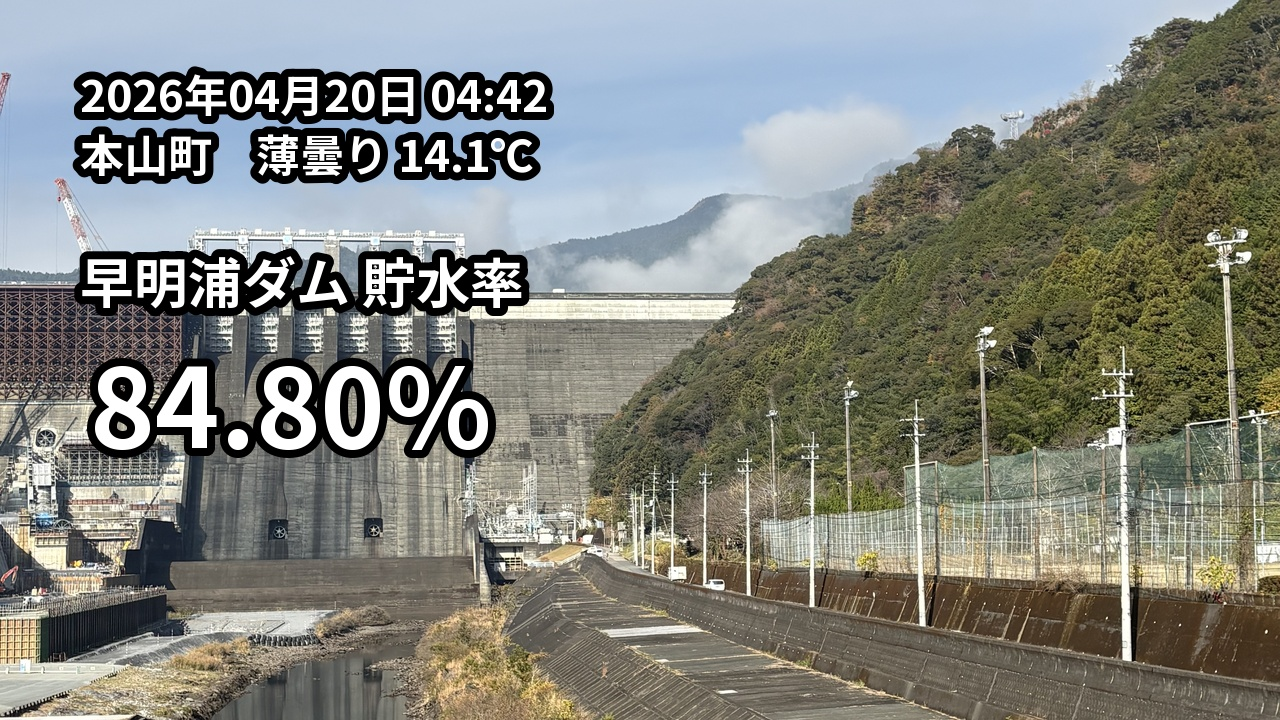
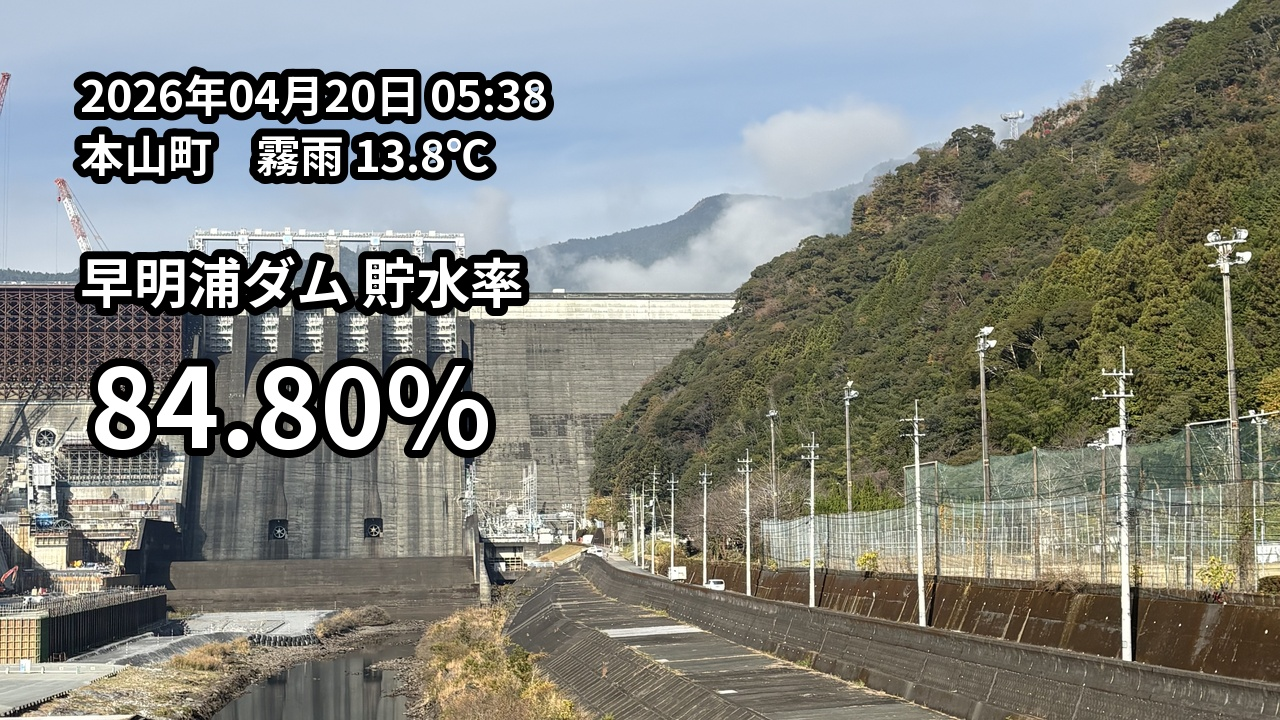
Update daily image

Changed region(s): [[0.1875, 0.0917, 0.4375, 0.275]]

diff --git a/index.html b/index.html
@@ -10,6 +10,6 @@
   </style>
 </head>
 <body>
-  <img src="result.jpg?v=202604200442" alt="早明浦ダム 貯水率" />
+  <img src="result.jpg?v=202604200538" alt="早明浦ダム 貯水率" />
 </body>
 </html>
